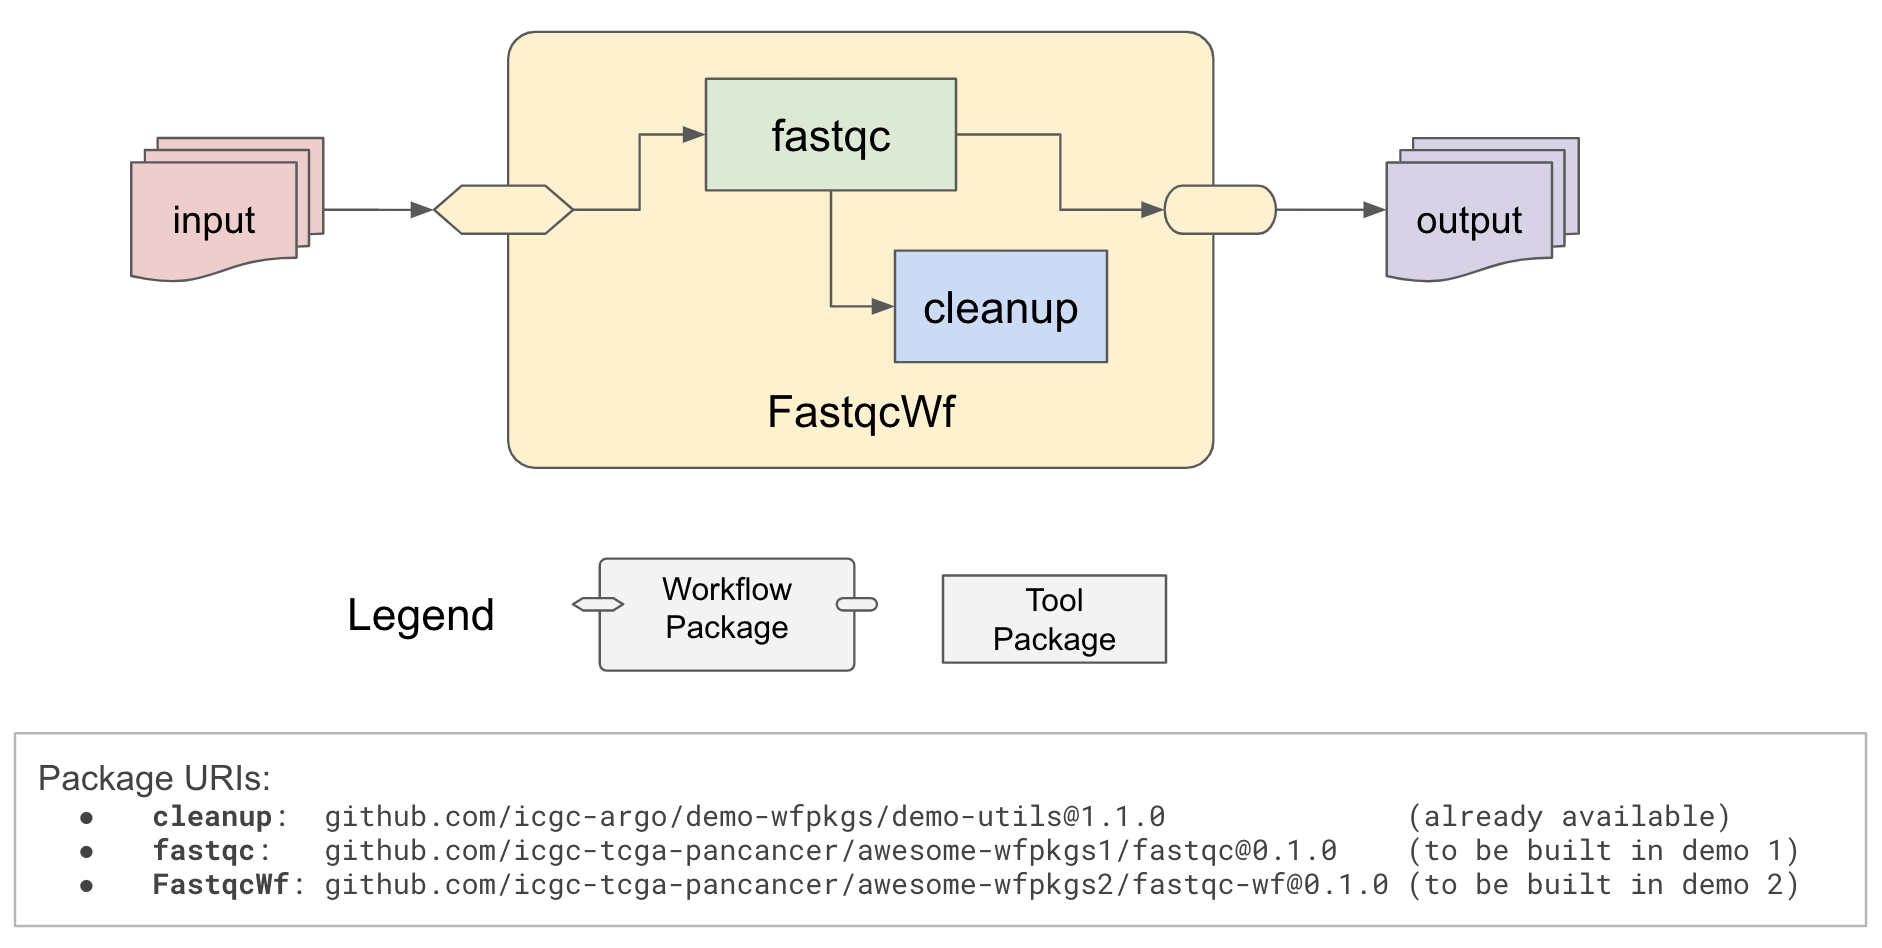
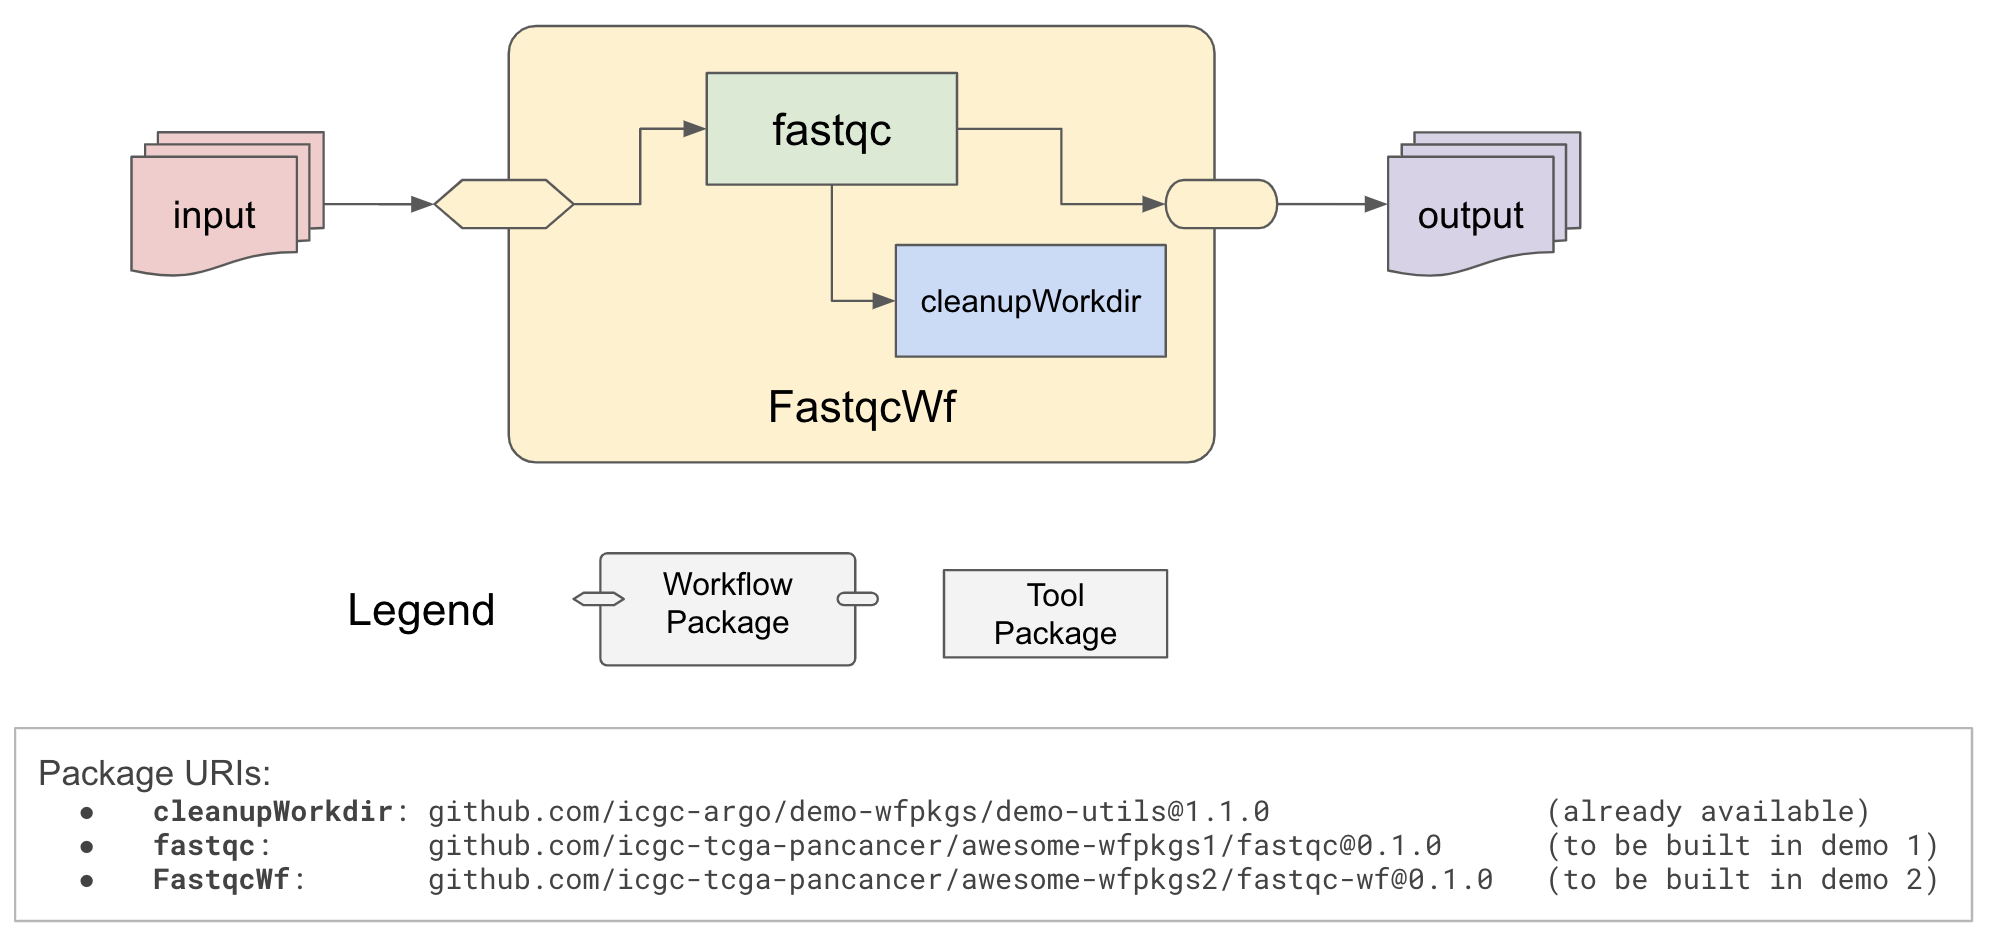
update diagram

Changed region(s): [[0.0, 0.7729, 1.0, 0.9893], [0.0616, 0.0, 0.8629, 0.4947], [0.1849, 0.5874, 0.6164, 0.7111]]

diff --git a/README.md b/README.md
@@ -73,7 +73,7 @@ To show usage information of WFPM CLI, run `wfpm --help`, or simply `wfpm`
 We present here step-by-step instructions how to use `wfpm` to create Nextflow DSL2 workflow packages.
 
 Our objective is to create a workflow that uses `FASTQC` tool to produce QC metrics for input sequencing
-reads. A utility `cleanup` tool is also used to remove unneeded intermediate files. The diagram below
+reads. A utility `cleanupWorkdir` tool is also used to remove unneeded intermediate files. The diagram below
 illustrates how the workflow is structured, basically, workflow package `fastqc-wf@0.1.0` contains two
 tool packages: `fastqc@0.1.0` and `demo-utils@1.1.0`. We will be creating `fastqc@0.1.0` and
 `fastqc-wf@0.1.0` while `demo-utils@1.1.0` is already available, we just need to import it as a dependency.
